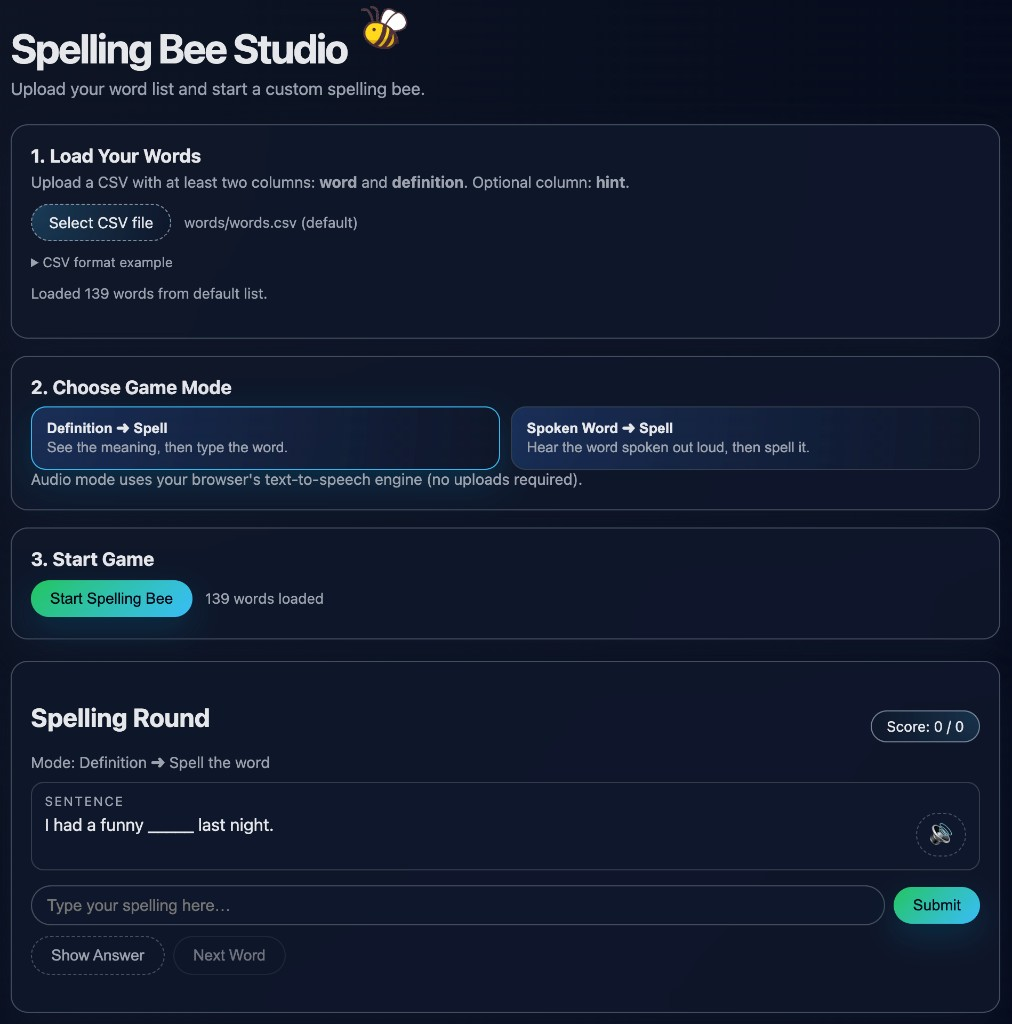
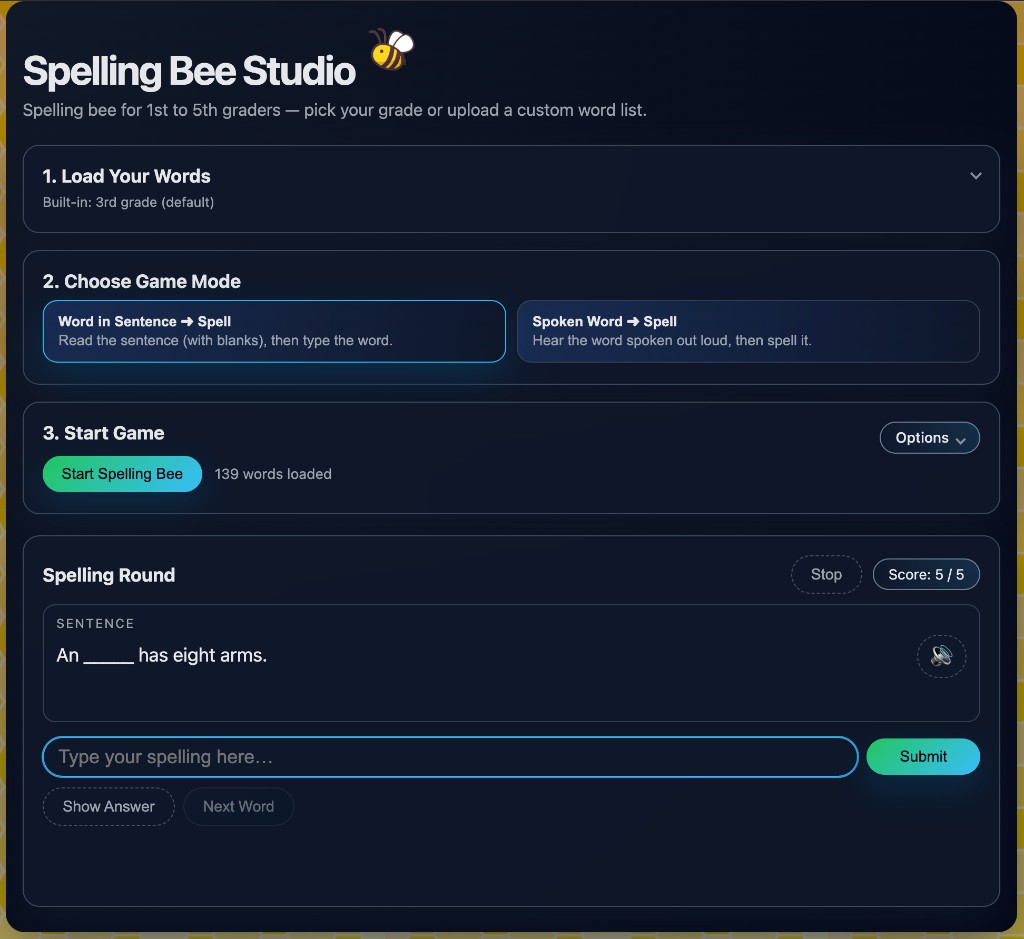
update screenshot

Changed region(s): [[0.0, 0.0, 1.0, 1.0], [0.1838, 0.9265, 0.2757, 0.9574]]

diff --git a/projects/index.html b/projects/index.html
@@ -114,9 +114,9 @@
                   >
                     <img
                       src="/assets/img/projects/spelling-bee/spelling-bee-studio.png"
-                      width="1012"
-                      height="1024"
-                      alt="Spelling Bee Studio UI: load CSV, choose game mode, start spelling bee, and spelling round with sentence clue"
+                      width="1024"
+                      height="939"
+                      alt="Spelling Bee Studio: word list, game modes, start round, and spelling area with sentence clue and score"
                       loading="lazy"
                       decoding="async"
                     />
